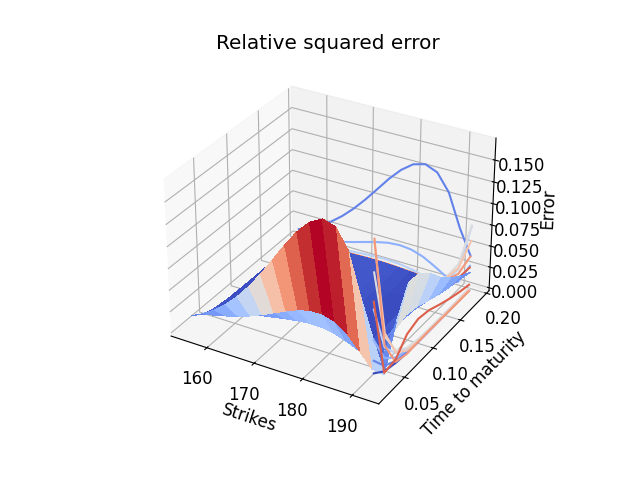
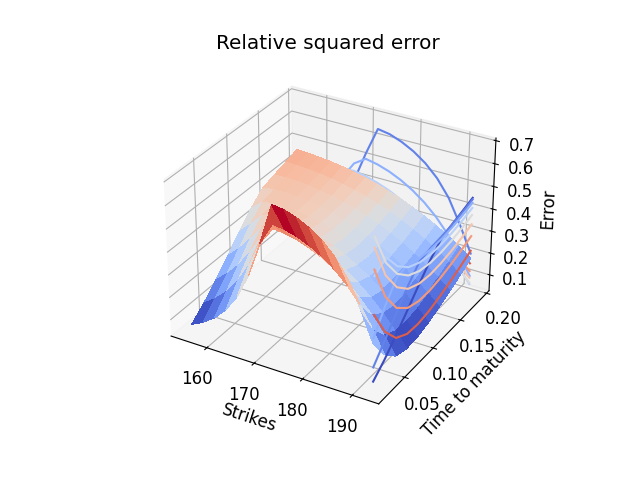
calibration for variance gamma model, mixed results

Changed region(s): [[0.25, 0.2188, 0.8438, 0.7812]]

diff --git a/plotting.py b/plotting.py
@@ -104,7 +104,9 @@ if __name__ == "__main__":
     # plotOptionCSV(["Data/callPrices.csv","Data/callDeltas.csv","Data/callGammas.csv"])
     # plotSurface("Data/ArtificialPriceSurface.csv","priceSurfacePlot")
     # plotSurface("Data/ArtificalVolSurface.csv","volSurfacePlot")
-    plotSurface("Data/HestonModelPriceSurface.csv","hestonModelPriceSurfacePlot")
-    plotSurface("Data/HestonModelErrorSurface.csv","hestonModelErrorSurfacePlot")
+    # plotSurface("Data/HestonModelPriceSurface.csv","hestonModelPriceSurfacePlot")
+    # plotSurface("Data/HestonModelErrorSurface.csv","hestonModelErrorSurfacePlot")
     # plotSurface("Data/BSMModelPriceSurface.csv","bsmModelPriceSurfacePlot")
     # plotSurface("Data/BSMModelErrorSurface.csv","bsmModelErrorSurfacePlot")
+    plotSurface("Data/VGModelPriceSurface.csv","hestonModelPriceSurfacePlot")
+    plotSurface("Data/VGModelErrorSurface.csv","hestonModelErrorSurfacePlot")

diff --git a/calibrate.cpp b/calibrate.cpp
@@ -438,7 +438,7 @@ namespace Calibrate
 		MarketParams marketParams{ 1.0,spot,riskFreeReturn,dividendYield };
 
 		// define pso  
-		PSO pso{ 20,3 };
+		PSO pso{ 10,3 };
 		pso.set_uniformRandomPositions({ 0.1,0.01,0.1 }, { 2.0,1.0,2.0 });
 		pso.set_uniformRandomVelocities({ 0.1,0.01,0.1 }, { 2.0,1.0,2.0 });
 
@@ -501,7 +501,7 @@ namespace Calibrate
 		const double spot{ 175.0 };
 		const double riskFreeReturn{ 0.045 };
 
-		HestonParams fitParams{ hestonCall(priceSurface,riskFreeReturn,spot,dividendYield) };
+		HestonParams fitParams{ hestonCallPSO(priceSurface,riskFreeReturn,spot,dividendYield) };
 
 		std::cout << "The optimal params found are: \n";
 		std::cout << "reversionRate: " << fitParams.reversionRate << "\n";

diff --git a/main.cpp b/main.cpp
@@ -30,11 +30,11 @@ auto main() -> int
 	//FFT::UnitTests::dft();
 	//FFT::UnitTests::pricingfft();
 
-	Calibrate::testHeston();
+	//Calibrate::testHeston();
 
 	//Calibrate::testBSM();
 
-	//Calibrate::testVarianceGamma();
+	Calibrate::testVarianceGamma();
 
 	//testPSO();
 
